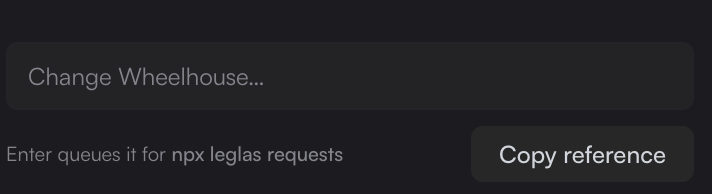
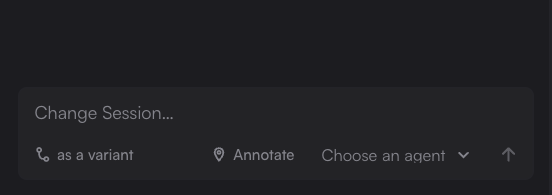
cut 0.7.0

diff --git a/README.md b/README.md
@@ -15,7 +15,7 @@
 </p>
 
 <p align="center">
-  <img src="https://raw.githubusercontent.com/FredAmartey/leglas/main/.github/assets/screenshots/rail-single.jpg" width="900" alt="The Leglas interface: a rail of three design directions on the left, and the selected one running as the real app filling the rest of the window" />
+  <img src="https://raw.githubusercontent.com/FredAmartey/leglas/main/.github/assets/screenshots/rail-single.jpg" width="900" alt="The Leglas interface: a rail of design directions on the left, one of them with a variant grouped under it, and the selected one running as the real app filling the rest of the window" />
 </p>
 
 <p align="center"><i>Every direction in the rail, the selected one running as your actual app. Arrow keys flip between them.</i></p>
@@ -46,7 +46,7 @@ and sessions that clean up after themselves.
 ## What you can do with Leglas
 
 <p align="center">
-  <img src="https://raw.githubusercontent.com/FredAmartey/leglas/main/.github/assets/screenshots/compare-artboards.jpg" width="900" alt="The Leglas interface: a rail of three design directions on the left, and two of them running side by side as the real app, each labelled with its name." />
+  <img src="https://raw.githubusercontent.com/FredAmartey/leglas/main/.github/assets/screenshots/compare-artboards.jpg" width="900" alt="The Leglas interface: the rail on the left, and two directions running side by side as the real app, each labelled with its name and the width it is drawn at." />
 </p>
 
 <p align="center"><i>Two directions for the same page, running side by side as the actual app.</i></p>
@@ -77,13 +77,21 @@ and sessions that clean up after themselves.
   once the agent uses a Leglas tool. Each run
   reports in a card above the field: who is working, what file they
   are touching, how long it has been, a stop button while it runs and
-  retry when it fails. Your agent, your subscription, no keys.
+  retry when it fails. Your agent, your subscription, no keys. Claude
+  Code and Codex stay warm between requests, so a run after the first
+  goes straight to the change instead of reading the project again.
   Prefer a terminal? `npx leglas watch` is the same loop with the
   agent's own output scrolling by. In Claude Code, the Leglas MCP
   server can also push each request straight into your open session as
   a channel event (channels are a research preview: start Claude Code
   with `--dangerously-load-development-channels
   server:<your leglas server name>`).
+- A change makes a variant, not a rewrite. Ask for something on the
+  direction you are looking at and the result registers under it in the
+  rail, with the original still there to compare against. A chip beside
+  the send button switches to changing the direction itself, for when a
+  change really is a fix. Hover any direction to see what it was built
+  from and the change that was asked for, in the words that were typed.
 - Keep the winner with one command. Leglas moves it into your source
   tree and clears the exploration away.
 - No app yet or want plain HTML comparisons? Some people want exactly that, and it works fine. Same comparison, no dev server.
@@ -99,6 +107,9 @@ npx leglas
 Leglas starts on port 4100, proxies your app, and opens
 `http://localhost:4100/leglas`. With no configuration you get a single
 preview of your app root. Add a config file to compare more than one thing.
+If that port turns out to be served from outside your project, Leglas
+says so and points at `devServer` and `--user-port` rather than quietly
+proxying the wrong app.
 
 It works with whatever you're building in. Leglas never imports or
 executes your framework, so the target can be Next, Vite, Remix,
@@ -176,7 +187,9 @@ Asking for a change works from the interface too. Type what you want
 changed into the field under the rail (or press `R`) and Leglas composes a
 prompt naming the direction and the file behind it, copies it to your
 clipboard, and queues it. The direction it means is the one highlighted
-directly above the field. Your agent drains the queue with `npx leglas requests --json` and clears
+directly above the field. By default the request asks for a new variant
+beside that direction; the chip next to the send button switches it to a
+change in place. Your agent drains the queue with `npx leglas requests --json` and clears
 it with `--clear`. Leglas runs no model of its own; your agent already
 knows your conventions and your taste.
 
@@ -193,19 +206,19 @@ those to trust first, because the design moves under them by design. One
 whose element has since gone turns amber rather than pointing confidently
 at the wrong thing.
 
-The line under the field is the whole status: whether anything is
-listening, what you have queued, and when it has been picked up.
+The card above the field is the whole status: what you have queued, who
+has taken it and for how long, and what went wrong when a run fails.
 
 <p align="center">
-  <img src="https://raw.githubusercontent.com/FredAmartey/leglas/main/.github/assets/screenshots/field-idle.png" width="290" alt="The change field reading: Enter queues it for npx leglas requests" />
-  <img src="https://raw.githubusercontent.com/FredAmartey/leglas/main/.github/assets/screenshots/field-queued.png" width="290" alt="The change field reading: one change queued for your agent" />
-  <img src="https://raw.githubusercontent.com/FredAmartey/leglas/main/.github/assets/screenshots/field-pickedup.png" width="290" alt="The change field reading: Your agent is on it" />
+  <img src="https://raw.githubusercontent.com/FredAmartey/leglas/main/.github/assets/screenshots/field-idle.png" width="290" alt="The change field, empty, with its agent picker reading Choose an agent" />
+  <img src="https://raw.githubusercontent.com/FredAmartey/leglas/main/.github/assets/screenshots/field-queued.png" width="290" alt="A card above the change field reading: Change queued, pick who runs your changes" />
+  <img src="https://raw.githubusercontent.com/FredAmartey/leglas/main/.github/assets/screenshots/field-pickedup.png" width="290" alt="A card above the change field reading: Codex is on it, editing .leglas/variants/hero/deepink.tsx, 1m 19s, with a stop button" />
 </p>
 
 <p align="center"><i>Nothing waiting, then a request queued, then an agent that has taken it.</i></p>
 
-Pick an agent once and the same line shows it working: which file it is
-editing, a cancel if you change your mind, a retry when a run goes
+Pick an agent once and the same card shows it working: which file it is
+editing, a stop if you change your mind, a retry when a run goes
 wrong. `npx leglas watch` in another terminal is the same loop with the
 agent's own output in view, and it needs no flag once an agent has been
 picked in the interface.
@@ -298,6 +311,7 @@ export default {
 | `branch`         | no            | Preview a git branch instead of the running dev server                  |
 | `file`           | no            | An HTML file served by Leglas itself, instead of `url`                  |
 | `basedOn`        | no            | Title of the direction this is a variant of; the rail groups the family |
+| `askedFor`       | no            | The change that was asked for, in the words that were typed             |
 | `devServer`      | no            | Defaults to `http://localhost:3000`                                     |
 | `devCommand`     | with `branch` | How to start the app. Must contain `{port}`.                            |
 | `installCommand` | no            | Defaults to `npm install`                                               |
@@ -333,8 +347,8 @@ that is what the tools popover's "Scale each side to fit" switch is for.
 
 Arrows move between directions, `1` to `9` jump straight to one, `R` asks
 for a change to the one you are on, `A` annotates the design itself,
-`Cmd K` (`Ctrl K` elsewhere) searches and `B` collapses the rail. Press `?`
-for the whole keymap.
+`Cmd K` (`Ctrl K` elsewhere) searches, `T` opens the tools popover and `B`
+collapses the rail. Press `?` for the whole keymap.
 
 A small tools widget floats over the stage and can be dragged to any
 corner, because a floating control has a habit of sitting exactly where
@@ -349,36 +363,52 @@ the preview frame, never by altering what the proxy forwards.
 ## Command line
 
 ```text
-leglas init                Prepare a project and teach its agents
-leglas [options]           Start the server and open the interface
-leglas new <surface>       Scaffold a branch point for a surface
-leglas explore <surface>   Brief an agent's exploration of a surface
-leglas classify            Decide where a direction should live
-leglas add --title T --url U   Register a preview on this machine
-leglas list                Show every preview, shared and local
-leglas show <title>        Everything Leglas knows about one direction
-leglas requests            Collect change requests made from the interface
-leglas keep <title>        Keep a winner and end the exploration
+Usage
+  leglas init                Prepare a project and teach its agents
+  leglas [options]           Start the server and open the interface
+  leglas new <surface>       Scaffold a branch point for a surface
+  leglas explore <surface>   Brief an agent's exploration of a surface
+  leglas classify            Decide where a direction should live
+  leglas add --title T --url U   Register a preview on this machine
+  leglas list                Show every preview, shared and local
+  leglas show <title>        Everything Leglas knows about one direction
+  leglas requests            Show change requests made from the interface
+  leglas watch --run "<cmd>" Hand each request to your agent as it arrives
+  leglas keep <title> --to <path>  Keep a winner and end the exploration
 
-  --user-port <port>   Port your dev server is on
-  --port <port>        Port for Leglas (default 4100, next free if taken)
-  --config <path>      Use this config file instead of searching upward
+Options
+  --user-port <port>   Port your dev server is on (default: from config, or 3000)
+  --port <port>        Port for Leglas itself (default: 4100, next free if taken)
+  --config <path>      Config file to use instead of searching upward
   --no-open            Do not open the browser
-  --json               Print one machine-readable envelope
+  --json               Print a single machine-readable envelope
+  -h, --help           Show this
+  -v, --version        Show the version
 
-  --print              (new) Print the scaffold instead of writing it
-  --from <path>        (new) Use an existing component as the baseline
-  --count <n>          (explore) How many directions, default 3
-  --based-on <title>     (explore) Variants of an existing direction instead of new ones
-  --based-on <title>     (add) The direction this preview is a variant of; groups the family
-  --asked-for <text>     (add) The change that was asked for, in the words that were typed
-  --change <path>      (classify) A file the direction creates or wires up
-  --rewrite <path>     (classify) An existing file whose behaviour must change
-  --note <text>        (add) Second line under the title
-  --tag <text>         (add) Repeatable
-  --branch <name>      (add) Back the preview with a checkout of this branch
-  --file <path>        (add) An HTML file served by Leglas itself
-  --to <path>          (keep) Where the winner should live
+Options for new
+  --print              Print the scaffold instead of writing it
+  --from <path>        Use an existing component as the baseline
+
+Options for explore
+  --count <n>          How many directions (default 3)
+  --based-on <title>     Variants of an existing direction instead of new ones
+
+Options for watch
+  --run <command>      Your agent, with {prompt} where the request goes, for
+                       example "claude -p {prompt}". Remembered after first use
+  --port <port>        Port Leglas itself is on (default: 4100)
+
+Options for classify
+  --change <path>      A file the direction creates or wires up (repeatable)
+  --rewrite <path>     An existing file whose behaviour it must change (repeatable)
+
+Options for add
+  --note <text>        Second line under the title
+  --tag <text>         Repeatable
+  --branch <name>      Back the preview with a checkout of this git branch
+  --file <path>        Preview a plain HTML file served by Leglas itself
+  --based-on <title>   The direction this is a variant of; groups the family
+  --asked-for <text>   The change that was asked for, in the words that were typed
 ```
 
 `leglas.config.ts` is the shared description of a project: commit it and a
@@ -455,9 +485,9 @@ cross-origin previews, which the browser will not let it read.
 
 ## Limitations
 
-- Leglas shows directions; it does not create them. Comparing existing
-  routes costs nothing, but a new direction is still code you or your
-  agent writes.
+- Leglas runs no model of its own. Comparing existing routes costs
+  nothing, but a new direction is still code your agent writes; Leglas
+  hands it the request and shows the result.
 - The duplicate check compares rendered markup only, and only when the
   server renders some. Two previews that differ solely in a script are
   reported as identical, and in a fully client-rendered app the check
@@ -488,9 +518,12 @@ terminal and `pnpm --filter @leglas/shell dev` in another.
 
 Two packages are published, both unscoped: `leglas`, which bundles the
 server and the built interface, and `leglas-mcp`. Releases are
-tag-driven: bump both versions, push a `v<version>` tag, and CI runs the
-suite and publishes through npm trusted publishing. No npm token exists
-anywhere in the project.
+tag-driven: set the same version in both packages and `plugin.json`, turn
+the changelog's Unreleased section into that version, push a `v<version>`
+tag, and CI runs the suite and publishes through npm trusted publishing.
+A tag that disagrees with the manifests is refused, and so is a patch tag
+when `api-surface.txt` has moved since the previous one. No npm token
+exists anywhere in the project.
 
 ## License
 

diff --git a/CHANGELOG.md b/CHANGELOG.md
@@ -11,7 +11,18 @@ They share a version number, so a plugin, a CLI and a server picked up at the
 same time are the same release. Each entry says who a change actually reaches,
 because most reach only one of the three.
 
-## Unreleased
+## 0.7.0 (2026-08-26)
+
+Embedded agents stay warm. The public surface did not move, so this could
+have been a patch; it is a minor because how every run starts changed
+underneath, and because `leglas` gained an optional dependency.
+
+### Added
+
+- **A direction says when an agent is working on it.** Its row in the rail
+  carries a working badge while an agent has the request in hand, and not
+  before: a request that is only queued shows nothing on the row, so the
+  badge means work under way rather than work waiting. (`leglas`)
 
 ### Changed
 
@@ -20,7 +31,9 @@ because most reach only one of the three.
   alive across bounded turns, applies the user's chosen effort per turn and
   maps stop to the SDK interrupt. Claude's model, project/user settings, tools
   and edit permissions remain authoritative. If the optional SDK cannot load
-  or initialize, Leglas falls back to the existing `claude -p` path. (`leglas`)
+  or initialize, Leglas falls back to the existing `claude -p` path. The SDK
+  is an optional dependency of `leglas`, so an install that cannot fetch it
+  still gets a working Leglas. (`leglas`)
 - **Embedded Codex runs stay warm between requests.** Leglas now prewarms one
   Codex app-server process, starts and resumes threads through its streamed
   protocol and maps cancellation to a turn interrupt. The selected model,
@@ -46,6 +59,27 @@ because most reach only one of the three.
   has a truthful result, ordinary reads return it immediately and refresh an
   expired answer in the background; opening the picker still waits for the
   explicitly requested fresh result. (`leglas`)
+- **A preview's loading state belongs to the document that produced it.**
+  Readiness was keyed by title alone, so a load event from a frame that had
+  since been replaced, by an agent swapping the URL in place or a retry
+  remounting the same one, could finish the loader early, leave it stuck or
+  describe the wrong direction. It is now tracked by direction, URL and
+  reload generation together, and events from an older frame are ignored.
+  (`leglas`)
+- **The duplicate check reads the page it was asked about.** A scan's verdict
+  is recorded against the exact URL that produced it, so a direction whose
+  URL changed under the same title is read again rather than trusted. Scans
+  run one at a time, a read that failed is recorded as failed for this page
+  load instead of retrying forever or passing as a signature, and the check
+  waits on a direction with a request queued or running, since its source is
+  about to change. (`leglas`)
+- **Reading or choosing an agent cannot hang the picker.** Agent reads time
+  out after five seconds and selections after ten. A selection that times
+  out re-reads the server before reporting, so one accepted just before the
+  deadline stays selected; otherwise the picker names the agent that was not
+  selected and offers to try again. The chooser also stays available until
+  an agent is chosen: the "I'll run my own" dismissal is gone, since
+  `leglas watch` announces an external agent on its own. (`leglas`)
 
 ## 0.6.1 (2026-08-20)
 
